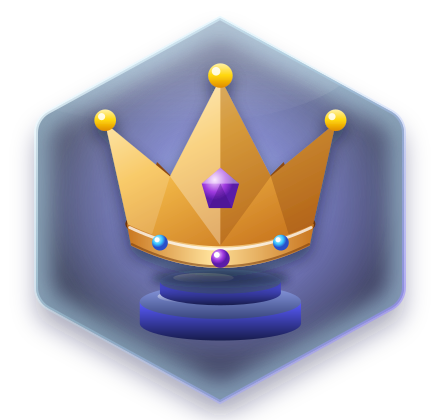
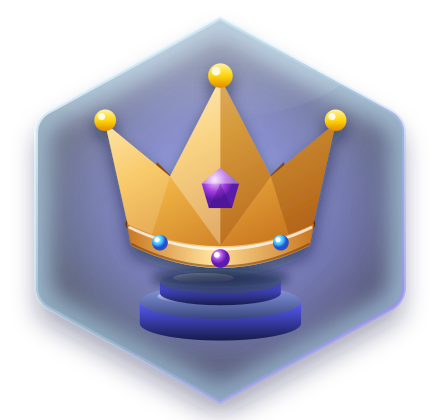
Cleaner: Duplicates imports the button's space (a missing name stopped the whole shell); lighter pane; a little more room above the round button

Changed region(s): [[0.1182, 0.5881, 0.2068, 0.7119], [0.7977, 0.65, 0.8568, 0.7119], [0.4727, 0.8357, 0.5318, 0.8976]]

diff --git a/apps/cleaner/ui.jsx b/apps/cleaner/ui.jsx
@@ -274,7 +274,7 @@ export function Hero({ art, title, line, features = [], children }) {
 // The large round button: it sits high enough for its pulse never to reach the Dock's blur (a box that does repaints
 // the whole Dock), its glow is still and only its inside breathes, and busy it is circled by two dots.
 const ORB = 96, ORB_R = ORB / 2 + 6, ORB_BOTTOM = 40;
-export const ORB_SPACE = 136;                // what a section leaves free for it
+export const ORB_SPACE = 148;                // what a section leaves free for it
 export function Orb({ label, onClick, disabled, busy }) {
   const p = usePal();
   const glow = useRef(null), ring = useRef(null), press = useRef(null), dot = useRef(null), tail = useRef(null);

diff --git a/apps/cleaner/duplicates.jsx b/apps/cleaner/duplicates.jsx
@@ -2,7 +2,7 @@
 // at least one independent copy of every group and compares bytes right before acting.
 import { View, cleaner, t as tr, formatBytes, formatNumber, formatDate, revealPath, typeScale, spacing } from '@lordos/sdk';
 import { useMemo } from 'react';
-import { Label, Glass, GlassButton, Pill, Check, Hero, PagedList, CountUp } from './ui.jsx';
+import { Label, Glass, GlassButton, Pill, Check, Hero, PagedList, CountUp, ORB_SPACE } from './ui.jsx';
 
 export function DupHero({ folders, chosen, toggle }) {
   return (

diff --git a/tools/gen-cleaner-art.py b/tools/gen-cleaner-art.py
@@ -24,7 +24,7 @@ DEFS = '''<defs>
 <radialGradient id="lens" cx=".4" cy=".35"><stop offset="0" stop-color="#e6fbff" stop-opacity=".85"/><stop offset="1" stop-color="#39c5ff" stop-opacity=".35"/></radialGradient>
 <linearGradient id="pane" x1="0" y1="0" x2="1" y2="1"><stop offset="0" stop-color="#ffffff" stop-opacity=".34"/><stop offset=".5" stop-color="#9fd8ff" stop-opacity=".16"/><stop offset="1" stop-color="#8a6bff" stop-opacity=".3"/></linearGradient>
 <radialGradient id="back" cx=".5" cy=".5"><stop offset="0" stop-color="#bfeeff" stop-opacity=".75"/><stop offset=".55" stop-color="#7a7dff" stop-opacity=".3"/><stop offset="1" stop-color="#7a7dff" stop-opacity="0"/></radialGradient>
-<radialGradient id="well" cx=".5" cy=".42"><stop offset="0" stop-color="#2a2f8c" stop-opacity=".1"/><stop offset="1" stop-color="#050828" stop-opacity=".62"/></radialGradient>
+<radialGradient id="well" cx=".5" cy=".42"><stop offset="0" stop-color="#2a2f8c" stop-opacity=".1"/><stop offset="1" stop-color="#050828" stop-opacity=".46"/></radialGradient>
 <linearGradient id="edgelit" x1="0" y1="0" x2="1" y2="1"><stop offset="0" stop-color="#fff" stop-opacity=".95"/><stop offset=".45" stop-color="#bfeeff" stop-opacity=".25"/><stop offset="1" stop-color="#8a6bff" stop-opacity=".7"/></linearGradient>
 <filter id="contact" x="-30%" y="-100%" width="160%" height="300%"><feGaussianBlur stdDeviation="7"/></filter>
 <filter id="soft" x="-30%" y="-30%" width="160%" height="160%"><feGaussianBlur stdDeviation="12"/></filter>
